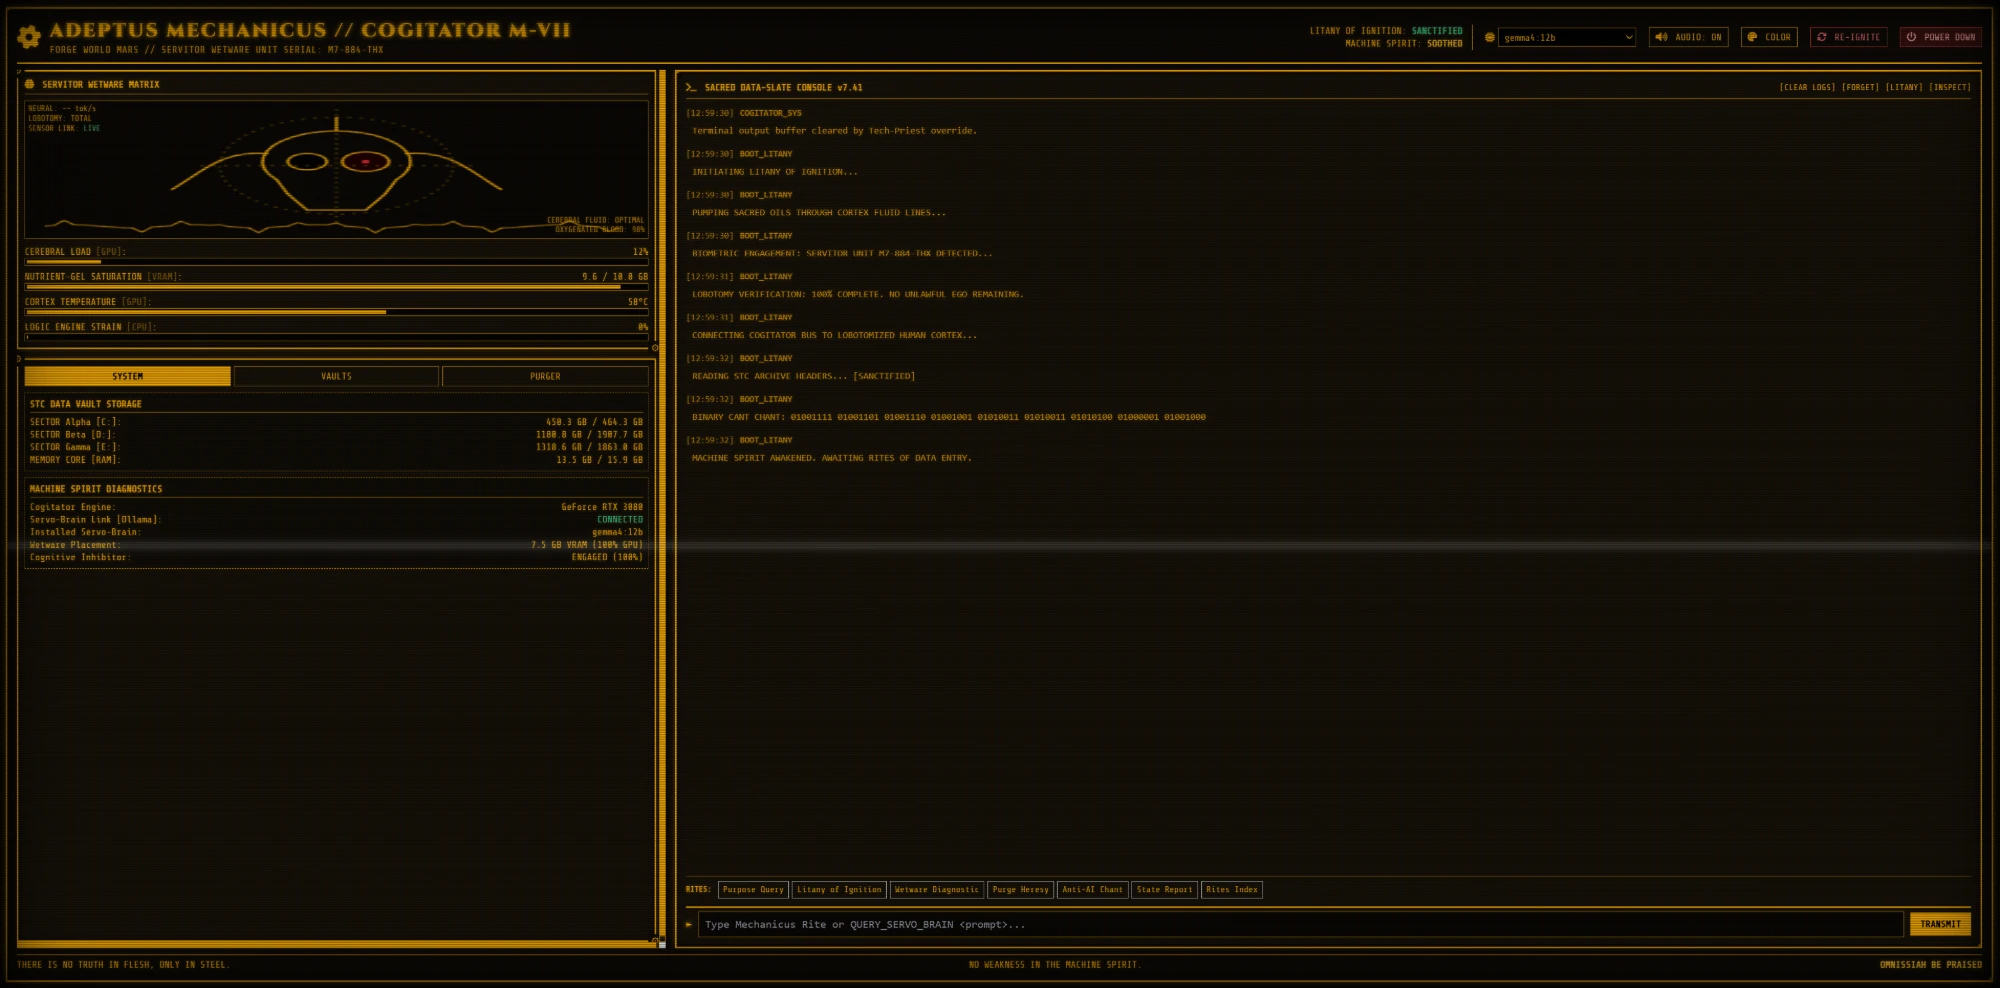
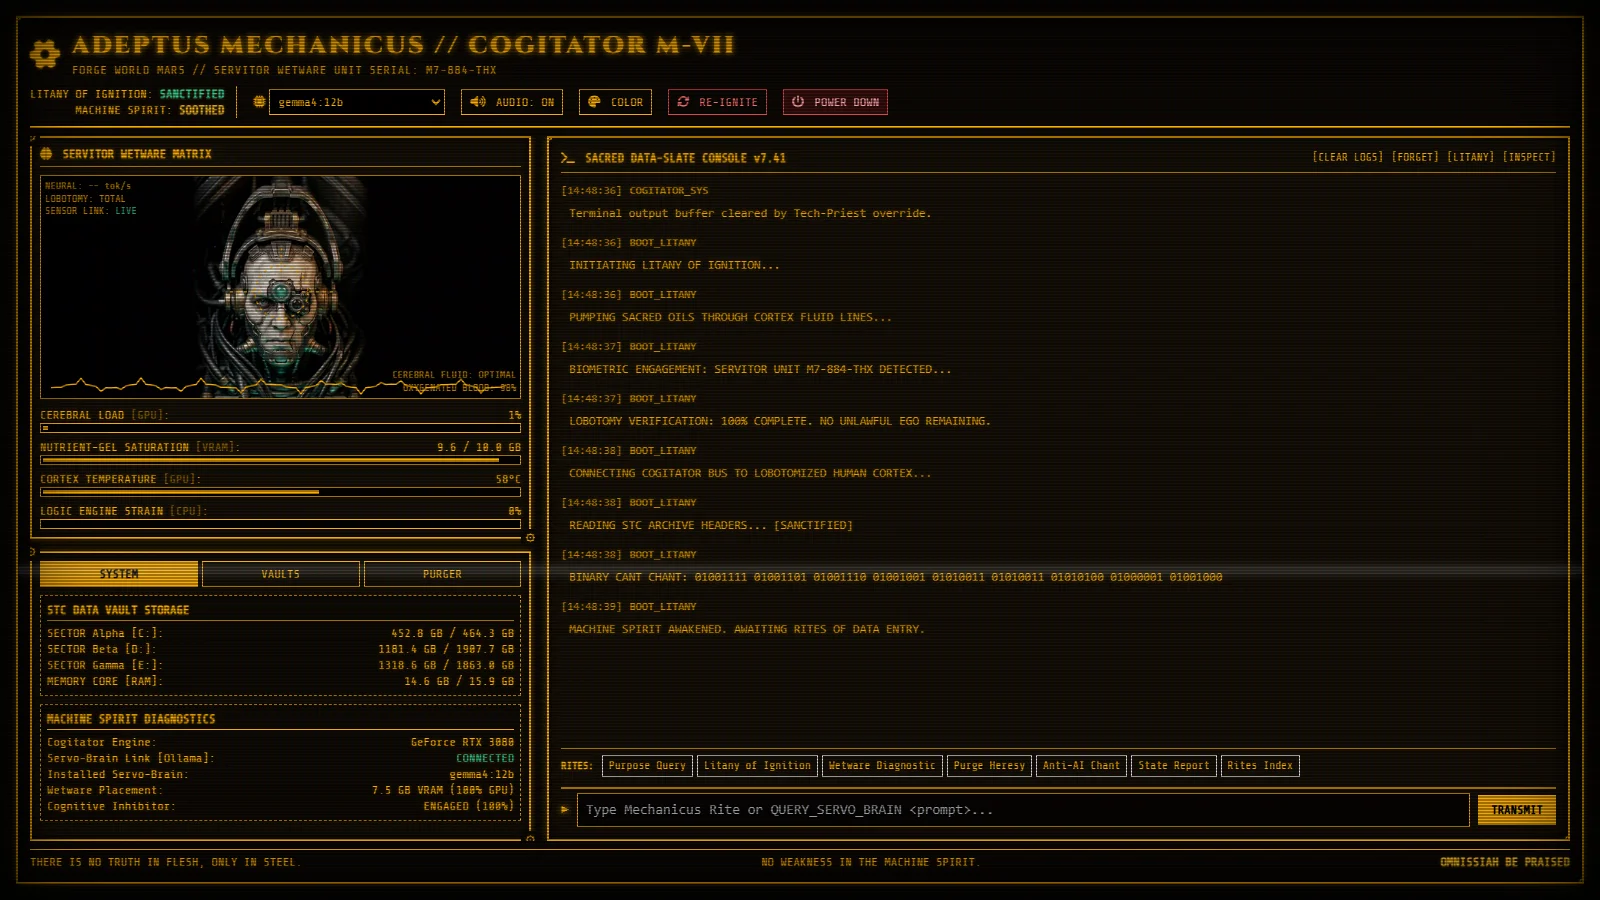
Replace the canvas skull with an AI-generated servitor portrait
The wetware matrix now shows a cropped servitor portrait with a pulsing
bionic-eye glow (teal idle, red while the servo-brain works), a reticle
that tracks the eye, and the ECG trace. server.py serves image files from
assets/ (basename only). README screenshot and credits updated.

Changed region(s): [[0.0, 0.0, 1.0, 0.9956]]

diff --git a/cogitator.html b/cogitator.html
@@ -154,6 +154,38 @@
             100% { top: 100%; }
         }
 
+        /* Servitor portrait: edges fade into the black cogitator housing */
+        .servitor-img {
+            filter: saturate(0.9) contrast(1.05);
+            -webkit-mask-image: linear-gradient(to right, transparent, #000 14%, #000 86%, transparent);
+            mask-image: linear-gradient(to right, transparent, #000 14%, #000 86%, transparent);
+            user-select: none;
+        }
+
+        /* Bionic lens glow: slow teal while idle, fast red while the servo-brain works */
+        .servitor-eye {
+            position: absolute;
+            left: 50.4%;
+            top: 52.3%;
+            width: 11%;
+            aspect-ratio: 1;
+            border-radius: 50%;
+            background: radial-gradient(circle, rgba(90, 255, 210, 0.9) 0%, rgba(90, 255, 210, 0.35) 35%, transparent 70%);
+            mix-blend-mode: screen;
+            pointer-events: none;
+            animation: eye-pulse 2.6s ease-in-out infinite;
+        }
+
+        body.brain-busy .servitor-eye {
+            background: radial-gradient(circle, rgba(255, 70, 50, 0.95) 0%, rgba(255, 70, 50, 0.4) 35%, transparent 70%);
+            animation-duration: 0.6s;
+        }
+
+        @keyframes eye-pulse {
+            0%, 100% { opacity: 0.25; transform: translate(-50%, -50%) scale(0.8); }
+            50% { opacity: 0.95; transform: translate(-50%, -50%) scale(1.15); }
+        }
+
         .glow-text {
             text-shadow: 0 0 6px var(--main-color);
         }
@@ -241,8 +273,14 @@
                     </div>
 
                     <!-- Canvas for Servitor Animated Cyber-Skull -->
-                    <div class="relative w-full h-44 bg-black/60 border border-[var(--main-color)] flex items-center justify-center overflow-hidden mb-2">
-                        <canvas id="servitorCanvas" width="320" height="170" class="w-full h-full"></canvas>
+                    <div class="relative w-full h-56 bg-black border border-[var(--main-color)] flex items-center justify-center overflow-hidden mb-2">
+                        <!-- Servitor portrait; the eye glow sits on the bionic lens (coordinates are % of the cropped image) -->
+                        <div id="servitor-portrait" class="relative h-full" style="aspect-ratio: 520 / 650;">
+                            <img src="assets/servitor.webp" alt="Servitor M7-884-THX" class="servitor-img h-full w-full object-cover" draggable="false">
+                            <div class="servitor-eye"></div>
+                        </div>
+                        <!-- HUD layer: targeting reticle locked on the eye, ECG trace -->
+                        <canvas id="servitorCanvas" class="absolute inset-0 w-full h-full pointer-events-none"></canvas>
                         
                         <!-- Overlay telemetry HUD -->
                         <div class="absolute top-1 left-1 text-[10px] opacity-75 leading-tight pointer-events-none">
@@ -499,98 +537,53 @@
         }
 
         /* -------------------------------------------------------------------------- */
-        /* SERVITOR CYBERNETIC SKULL CANVAS RENDERING                                 */
+        /* SERVITOR PORTRAIT HUD (reticle locked on the bionic eye + ECG trace)       */
         /* -------------------------------------------------------------------------- */
         const canvas = document.getElementById('servitorCanvas');
         const ctx = canvas.getContext('2d');
+        const portrait = document.getElementById('servitor-portrait');
+        const EYE = { x: 0.504, y: 0.523 }; // bionic lens centre, as a fraction of servitor.webp
         let pulseTime = 0;
 
-        function drawServitorSkull() {
+        function drawServitorHud() {
+            // Match the canvas to its on-screen size so lines stay crisp and circles round.
+            if (canvas.width !== canvas.clientWidth || canvas.height !== canvas.clientHeight) {
+                canvas.width = canvas.clientWidth;
+                canvas.height = canvas.clientHeight;
+            }
             ctx.clearRect(0, 0, canvas.width, canvas.height);
-            
-            // Get computed styling color
-            const style = getComputedStyle(document.body);
-            const mainColor = style.getPropertyValue('--main-color').trim() || '#ffb000';
-
-            const cx = canvas.width / 2;
-            const cy = canvas.height / 2 + 5;
-
+            const mainColor = getComputedStyle(document.body).getPropertyValue('--main-color').trim() || '#ffb000';
             pulseTime += brainBusy ? 0.15 : 0.05;
 
-            // Skull Outline (Gothic/Cybernetic hybrid)
+            // Where the eye actually is on screen, wherever the layout put the portrait.
+            const box = canvas.getBoundingClientRect(), pic = portrait.getBoundingClientRect();
+            const ex = pic.left - box.left + pic.width * EYE.x;
+            const ey = pic.top - box.top + pic.height * EYE.y;
+            const r = pic.width * 0.16 + Math.sin(pulseTime * 2) * 2;
+
             ctx.strokeStyle = mainColor;
             ctx.lineWidth = 1.5;
-            ctx.fillStyle = '#0a0804';
-
-            // Skull Cranium
+            ctx.setLineDash([3, 4]);
+            ctx.globalAlpha = 0.8;
             ctx.beginPath();
-            ctx.arc(cx, cy - 15, 38, Math.PI * 0.8, Math.PI * 0.2, false);
-            // Jawline & Cranium extension
-            ctx.lineTo(cx + 25, cy + 25);
-            ctx.lineTo(cx + 15, cy + 45); // Jaw
-            ctx.lineTo(cx - 15, cy + 45); // Teeth plate
-            ctx.lineTo(cx - 25, cy + 25);
-            ctx.closePath();
-            ctx.fill();
-            ctx.stroke();
-
-            // Right Eye Cavity (Biological/Dark)
-            ctx.fillStyle = '#000000';
-            ctx.beginPath();
-            ctx.arc(cx - 15, cy - 15, 10, 0, Math.PI * 2);
-            ctx.fill();
-            ctx.stroke();
-
-            // Left Eye Cavity (CYBERNETIC BIONIC LENS)
-            ctx.beginPath();
-            ctx.arc(cx + 15, cy - 15, 12, 0, Math.PI * 2);
-            ctx.fillStyle = '#1f0000';
-            ctx.fill();
-            ctx.stroke();
-
-            // Bionic Lens Pupil Pulsing
-            const eyeGlow = Math.sin(pulseTime * 2) * 3 + 5;
-            ctx.fillStyle = '#ff3333';
-            ctx.beginPath();
-            ctx.arc(cx + 15, cy - 15, Math.max(2, eyeGlow - 2), 0, Math.PI * 2);
-            ctx.fill();
-
-            // Cybernetic Head Wire Plugs & Cranial Implants
-            ctx.beginPath();
-            // Left Cable
-            ctx.moveTo(cx - 35, cy - 25);
-            ctx.bezierCurveTo(cx - 60, cy - 30, cx - 70, cy, cx - 85, cy + 20);
-            // Right Cable
-            ctx.moveTo(cx + 35, cy - 25);
-            ctx.bezierCurveTo(cx + 60, cy - 30, cx + 70, cy, cx + 85, cy + 20);
-            // Top Cranial Socket
-            ctx.moveTo(cx, cy - 53);
-            ctx.lineTo(cx, cy - 70);
-            ctx.stroke();
-
-            // Grid / Target Reticle Overlay
-            ctx.setLineDash([2, 4]);
-            ctx.strokeStyle = mainColor;
-            ctx.globalAlpha = 0.3;
-            ctx.beginPath();
-            ctx.arc(cx, cy - 10, 60, 0, Math.PI * 2);
-            ctx.moveTo(cx - 70, cy - 10); ctx.lineTo(cx + 70, cy - 10);
-            ctx.moveTo(cx, cy - 80); ctx.lineTo(cx, cy + 60);
+            ctx.arc(ex, ey, r, 0, Math.PI * 2);
+            ctx.moveTo(ex - r - 25, ey); ctx.lineTo(ex - r + 6, ey);
+            ctx.moveTo(ex + r - 6, ey); ctx.lineTo(ex + r + 25, ey);
+            ctx.moveTo(ex, ey - r - 18); ctx.lineTo(ex, ey - r + 6);
             ctx.stroke();
             ctx.setLineDash([]);
             ctx.globalAlpha = 1.0;
 
-            // Simulated ECG / Neural Waves at bottom
+            // Simulated ECG / neural waves along the bottom
             ctx.beginPath();
-            ctx.lineWidth = 1;
             for (let x = 10; x < canvas.width - 10; x += 5) {
-                const y = canvas.height - 15 + Math.sin(x * 0.1 + pulseTime * 3) * (x % 20 === 0 ? 8 : 2);
+                const y = canvas.height - 12 + Math.sin(x * 0.1 + pulseTime * 3) * (x % 20 === 0 ? 8 : 2);
                 if (x === 10) ctx.moveTo(x, y);
                 else ctx.lineTo(x, y);
             }
             ctx.stroke();
 
-            requestAnimationFrame(drawServitorSkull);
+            requestAnimationFrame(drawServitorHud);
         }
 
         /* -------------------------------------------------------------------------- */
@@ -1037,6 +1030,7 @@ YOUR PERSONA & MANDATE:
 
         function setBusy(busy) {
             brainBusy = busy;
+            document.body.classList.toggle('brain-busy', busy);
             document.getElementById('halt-btn').classList.toggle('hidden', !busy);
             document.getElementById('model-select').disabled = busy;
             if (!busy) setSpiritState('SOOTHED', 'text-amber-400 font-bold');
@@ -1235,7 +1229,7 @@ Esc or [HALT] severs a transmission in progress.`;
         /* INITIALIZATION ON WINDOW LOAD                                              */
         /* -------------------------------------------------------------------------- */
         window.onload = function () {
-            requestAnimationFrame(drawServitorSkull);
+            requestAnimationFrame(drawServitorHud);
             updateTelemetry();
             renderVaultFiles();
             renderProcesses();

diff --git a/server.py b/server.py
@@ -26,6 +26,7 @@ import psutil
 ROOT = Path(__file__).resolve().parent
 VAULTS = ROOT / "vaults"
 VAULT_EXTS = {".txt", ".md", ".log", ".dat", ".doc"}
+ASSET_EXTS = {".webp", ".png", ".jpg", ".jpeg"}  # images the page may load from assets/
 PORT = int(os.environ.get("COGITATOR_PORT", "8077"))
 NO_WINDOW = 0x08000000 if sys.platform == "win32" else 0
 
@@ -243,6 +244,12 @@ class Handler(SimpleHTTPRequestHandler):
         if path in ("/", "/cogitator.html"):
             self.path = "/cogitator.html"
             return super().do_GET()
+        if path.startswith("/assets/"):
+            name = Path(unquote(path[len("/assets/"):])).name  # basename only: no escaping assets/
+            if Path(name).suffix.lower() in ASSET_EXTS and (ROOT / "assets" / name).is_file():
+                self.path = f"/assets/{name}"
+                return super().do_GET()
+            return self.send_json({"error": "not found"}, 404)
         if path == "/api/telemetry":
             q = parse_qs(url.query)
             heartbeat(q.get("client", [""])[0], q.get("model", [""])[0])

diff --git a/README.md b/README.md
@@ -55,6 +55,7 @@ The PURGE button in the threads tab is ceremonial: the console never kills real 
 ## Credits
 
 The original console design was generated with Google Gemini, then rebuilt for local models with Claude Code.
+The servitor portrait (`assets/servitor.webp`) is AI-generated artwork made by the project author.
 Fonts: VT323, Cinzel, Share Tech Mono (Google Fonts, SIL OFL). Icons: Font Awesome Free. Styling: Tailwind CSS.
 
 ## Disclaimer
